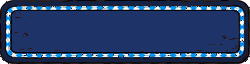
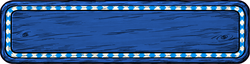
Menus: the blue wooden plank on every menu and every mug (coasters keep their colours)
Claude-Session: https://claude.ai/code/session_01GrbNTwVienMcpmsk1Pgq12

diff --git a/guides/DESIGNER_MANUAL.md b/guides/DESIGNER_MANUAL.md
@@ -7686,7 +7686,7 @@ Anthony's ask, "the background is now too high definition": one continuous
 long table running into the tent under strings of lights, one bench and table
 on each side, bare tables, green garland at the back, blue-and-white flags;
 the older detailed tents r94-r100 stay in `art_tool/rounds/`). The football was taken off (Anthony: "too detailed"). Every button is the drawn plank
-from the title screen, navy blue since 20 Oct 2026 with the blue-and-white edge, on every menu (`button_plank_drawn.png`, `Scale` 1 = drawn smooth at
+from the title screen, blue wood since 20 Oct 2026 with the blue-and-white edge, on every menu and every mug (`button_plank_drawn.png`, `Scale` 1 = drawn smooth at
 its own size; blank or 2 = a pixel plank drawn at 2x). The old pixel layers
 stay in `assets/ui/save/pixellab/`.
 
@@ -7715,7 +7715,7 @@ The three mugs ARE the save files, set in **`data/SaveMugs.csv`**:
 | Part | what it sets |
 |---|---|
 | `closed_full`, `open_full`, `closed_empty`, `open_empty` | Image = the mug pictures, all one mug at one size, cut from one hand-drawn sheet (r104, Anthony 20 Oct: "more drawn rather than so AI looking"; the beer was painted in where the handle meets the full mugs, free): full = a used save, empty = an empty slot, the open lid shows when you click it. The open lid is the closed lid (knob, dome and rim) tipped up at its hinge, and its thumb knob is the closed one, so both are the same size open and closed (free, `art_tool/save_screen/lid2.py`). The older glossy mugs stay in `art_tool/rounds/r96`-`r102` |
-| `slot` (one row per save, top = slot 1) | X, Y = the bottom middle of the mug on the 1920 x 1080 screen; Image = the button plank for that mug's choices, Colour = the coaster under it (Anthony 20 Oct: slot 1 blue, 2 red, 3 green; planks `assets/menu/button_plank_blue/red/green.png`, free recolours of the drawn plank) |
+| `slot` (one row per save, top = slot 1) | X, Y = the bottom middle of the mug on the 1920 x 1080 screen; Image = a plank for that mug's choices only (blank = the screen's plank), Colour = the coaster under it (Anthony 20 Oct: slot 1 blue, 2 red, 3 green) |
 | `name_text` | under a closed mug, "Slot 1 · 3 matches" on a coaster in the slot's colour: Y = the gap below the mug, Size = letter size |
 | `menu` | on the open mug's glass, one above the other (Anthony): X = button width, Y = how far above the mug's bottom their middle sits, Size = letter size |
 
